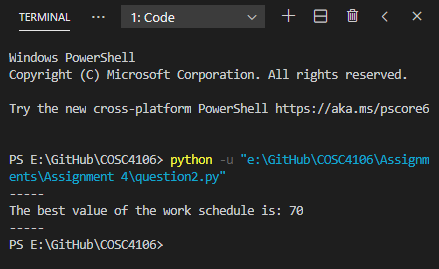
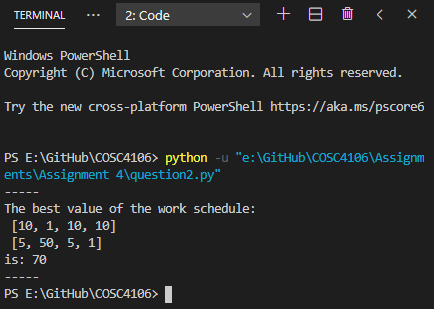
+

diff --git a/Assignments/Assignment 4/question2.py b/Assignments/Assignment 4/question2.py
@@ -24,7 +24,7 @@ def main():
     workSchedule = [[10, 1, 10, 10], 
                     [5, 50, 5, 1]]
     
-    print("The best value of the work schedule is:", solve(workSchedule, n))
+    print("The best value of the work schedule:\n", workSchedule[0], "\n", workSchedule[1], "\nis:", solve(workSchedule, n))
     
     print("-----")
     
